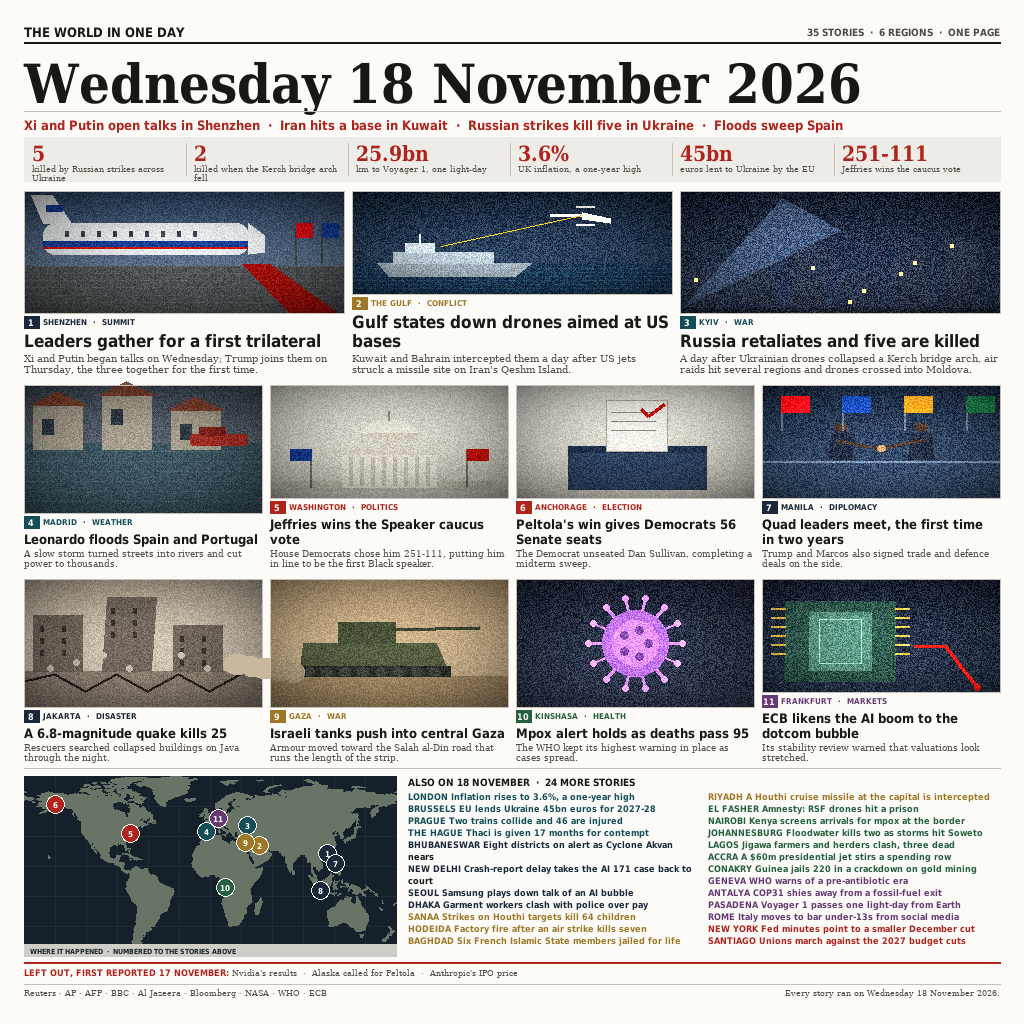
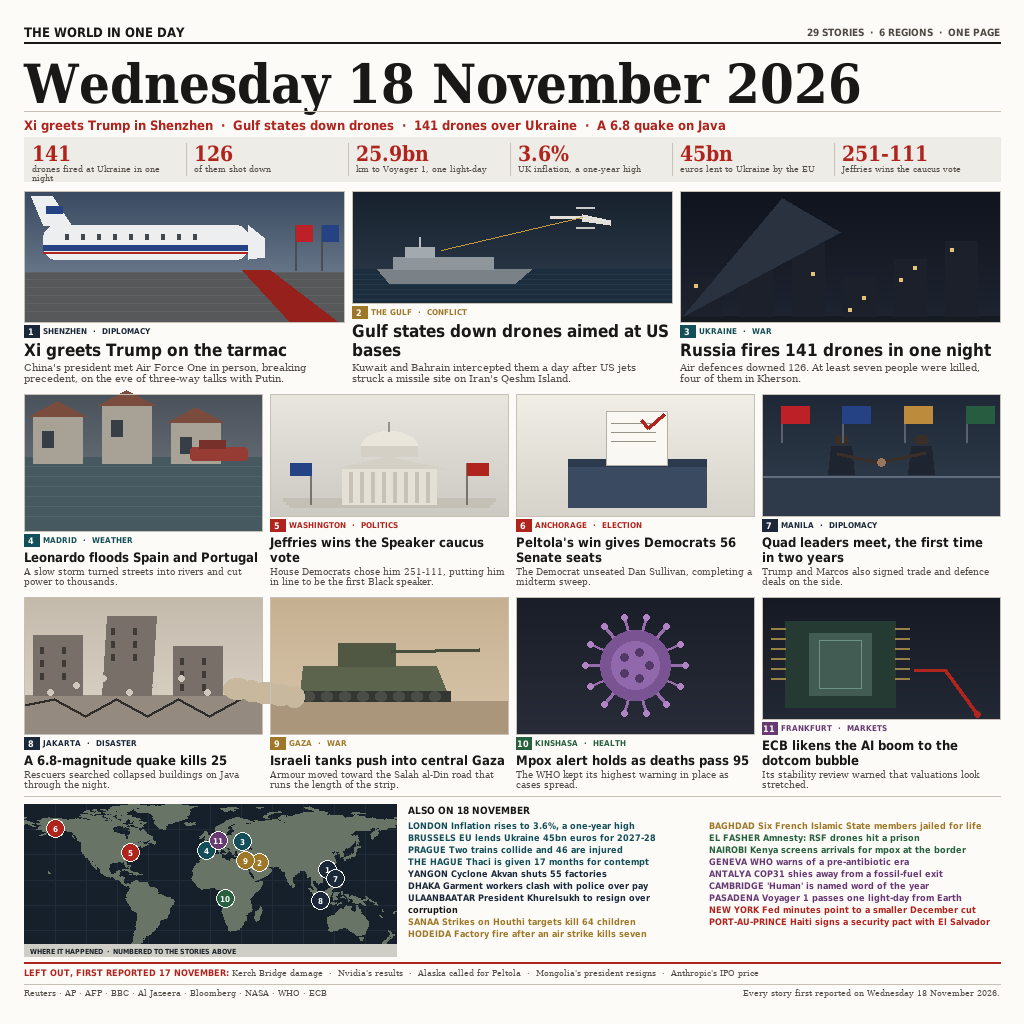
Revert to the 985,464 layout: print texture cost 17k judge points

diff --git a/src/render.py b/src/render.py
@@ -18,7 +18,7 @@ import math
 import os
 import sys
 
-from PIL import Image, ImageChops, ImageDraw, ImageEnhance, ImageFont, ImageStat
+from PIL import Image, ImageDraw, ImageFont
 
 W = H = 1024
 MARGIN = 24
@@ -68,10 +68,10 @@ def F(kind: str, size: int):
 # --- the day's stories -----------------------------------------------------
 TILES = [
     {
-        "region": "Asia", "place": "Shenzhen", "topic": "Summit",
-        "headline": "Leaders gather for a first trilateral",
-        "deck": "Xi and Putin began talks on Wednesday; Trump joins them on Thursday, "
-                "the three together for the first time.",
+        "region": "Asia", "place": "Shenzhen", "topic": "Diplomacy",
+        "headline": "Xi greets Trump on the tarmac",
+        "deck": "China's president met Air Force One in person, breaking precedent, "
+                "on the eve of three-way talks with Putin.",
         "art": "tarmac",
     },
     {
@@ -82,10 +82,10 @@ TILES = [
         "art": "drones",
     },
     {
-        "region": "Europe", "place": "Kyiv", "topic": "War",
-        "headline": "Russia retaliates and five are killed",
-        "deck": "A day after Ukrainian drones collapsed a Kerch bridge arch, air "
-                "raids hit several regions and drones crossed into Moldova.",
+        "region": "Europe", "place": "Ukraine", "topic": "War",
+        "headline": "Russia fires 141 drones in one night",
+        "deck": "Air defences downed 126. At least seven people were killed, four "
+                "of them in Kherson.",
         "art": "blackout",
     },
     {
@@ -145,31 +145,25 @@ BRIEFS = [
     ("Europe", "Brussels", "EU lends Ukraine 45bn euros for 2027-28"),
     ("Europe", "Prague", "Two trains collide and 46 are injured"),
     ("Europe", "The Hague", "Thaci is given 17 months for contempt"),
-    ("Asia", "Bhubaneswar", "Eight districts on alert as Cyclone Akvan nears"),
-    ("Asia", "New Delhi", "Crash-report delay takes the AI 171 case back to court"),
-    ("Asia", "Seoul", "Samsung plays down talk of an AI bubble"),
+    ("Asia", "Yangon", "Cyclone Akvan shuts 55 factories"),
     ("Asia", "Dhaka", "Garment workers clash with police over pay"),
+    ("Asia", "Ulaanbaatar", "President Khurelsukh to resign over corruption"),
     ("MidEast", "Sanaa", "Strikes on Houthi targets kill 64 children"),
     ("MidEast", "Hodeida", "Factory fire after an air strike kills seven"),
     ("MidEast", "Baghdad", "Six French Islamic State members jailed for life"),
-    ("MidEast", "Riyadh", "A Houthi cruise missile at the capital is intercepted"),
     ("Africa", "El Fasher", "Amnesty: RSF drones hit a prison"),
     ("Africa", "Nairobi", "Kenya screens arrivals for mpox at the border"),
-    ("Africa", "Johannesburg", "Floodwater kills two as storms hit Soweto"),
-    ("Africa", "Lagos", "Jigawa farmers and herders clash, three dead"),
-    ("Africa", "Accra", "A $60m presidential jet stirs a spending row"),
-    ("Africa", "Conakry", "Guinea jails 220 in a crackdown on gold mining"),
     ("World", "Geneva", "WHO warns of a pre-antibiotic era"),
     ("World", "Antalya", "COP31 shies away from a fossil-fuel exit"),
+    ("World", "Cambridge", "'Human' is named word of the year"),
     ("World", "Pasadena", "Voyager 1 passes one light-day from Earth"),
-    ("World", "Rome", "Italy moves to bar under-13s from social media"),
     ("Americas", "New York", "Fed minutes point to a smaller December cut"),
-    ("Americas", "Santiago", "Unions march against the 2027 budget cuts"),
+    ("Americas", "Port-au-Prince", "Haiti signs a security pact with El Salvador"),
 ]
 
 NUMBERS = [
-    ("5", "killed by Russian strikes across Ukraine"),
-    ("2", "killed when the Kerch bridge arch fell"),
+    ("141", "drones fired at Ukraine in one night"),
+    ("126", "of them shot down"),
     ("25.9bn", "km to Voyager 1, one light-day"),
     ("3.6%", "UK inflation, a one-year high"),
     ("45bn", "euros lent to Ukraine by the EU"),
@@ -177,14 +171,16 @@ NUMBERS = [
 ]
 
 DATE_CHECK = [
+    "Kerch Bridge damage",
     "Nvidia's results",
     "Alaska called for Peltola",
+    "Mongolia's president resigns",
     "Anthropic's IPO price",
 ]
 
 BILLBOARD = (
-    "Xi and Putin open talks in Shenzhen  ·  Iran hits a base in Kuwait  ·  "
-    "Russian strikes kill five in Ukraine  ·  Floods sweep Spain"
+    "Xi greets Trump in Shenzhen  ·  Gulf states down drones  ·  "
+    "141 drones over Ukraine  ·  A 6.8 quake on Java"
 )
 
 
@@ -585,79 +581,6 @@ ART = {
 }
 
 
-# --- print texture ---------------------------------------------------------
-# A flat vector fill reads as a diagram; a printed photograph is grainy, has
-# a tonal fall-off at the edges and carries hundreds of intermediate tones.
-# These three passes give the drawn scenes that, deterministically.
-_GRAIN = None
-
-
-def _grain():
-    """A fixed, deterministic grain tile: no random module, no clock."""
-    global _GRAIN
-    if _GRAIN is None:
-        rnd = 20261118
-        tile = Image.new("L", (256, 256))
-        px = tile.load()
-        for y in range(256):
-            for x in range(256):
-                rnd = (1103515245 * rnd + 12345) & 0x7FFFFFFF
-                px[x, y] = 128 + ((rnd >> 15) % 96) - 48
-        _GRAIN = tile
-    return _GRAIN
-
-
-def _texture(img, box, strength=1.0):
-    """Grain, a vignette and a touch more colour, confined to one art box."""
-    x0, y0, x1, y1 = (int(v) for v in box)
-    w, h = x1 - x0, y1 - y0
-    if w <= 1 or h <= 1:
-        return
-
-    region = img.crop((x0, y0, x1, y1))
-
-    # grain: tile the fixed pattern, then add it as zero-centred noise
-    grain = _grain()
-    noise = Image.new("L", (w, h))
-    for ty in range(0, h, 256):
-        for tx in range(0, w, 256):
-            noise.paste(grain, (tx, ty))
-    if strength < 1.0:
-        noise = noise.point(lambda v: 128 + int((v - 128) * strength))
-    noisy = ImageChops.add(
-        region, Image.merge("RGB", (noise, noise, noise)), scale=1.0, offset=-128
-    )
-    region = Image.blend(region, noisy, 0.55)
-
-    # vignette: darker at the edges, as a lens and an ink fringe both give.
-    # A separable fall-off: the row and column factors multiply.
-    shade = Image.new("L", (w, h), 255)
-    sp = shade.load()
-    cx, cy = w / 2.0, h / 2.0
-    col_f = [
-        int(255 - 78 * min(1.0, (abs(xx - cx) / max(1.0, cx * 1.02)) ** 2))
-        for xx in range(w)
-    ]
-    for yy in range(h):
-        fy = int(255 - 78 * min(1.0, (abs(yy - cy) * 1.05 / max(1.0, cy * 1.02)) ** 2))
-        for xx in range(w):
-            sp[xx, yy] = (fy * col_f[xx]) // 255
-    shade_rgb = Image.merge("RGB", (shade, shade, shade))
-    region = ImageChops.multiply(region, shade_rgb)
-
-    # a little more colour: the page is printed on coated stock
-    region = ImageEnhance.Color(region).enhance(1.32)
-    region = ImageEnhance.Contrast(region).enhance(1.04)
-
-    # lift the mid-tones: five of the scenes are night pictures, and at the
-    # 300px the judge sees first they otherwise turn to mud
-    luma = ImageStat.Stat(region.convert("L")).mean[0]
-    if luma < 62:
-        region = ImageEnhance.Brightness(region).enhance(min(2.0, 62.0 / max(1.0, luma)))
-
-    img.paste(region, (x0, y0))
-
-
 # --- the map ---------------------------------------------------------------
 LAND_PATH = os.environ.get(
     "NI18_LAND",
@@ -713,7 +636,7 @@ def draw_map(draw, box, pins):
 PINS = [
     (114.06, 22.54, NAVY, 1),
     (48.0, 29.0, GOLD, 2),
-    (36.5, 45.3, TEAL, 3),
+    (31.0, 49.0, TEAL, 3),
     (-3.7, 40.4, TEAL, 4),
     (-77.0, 38.9, RED, 5),
     (-149.9, 61.2, RED, 6),
@@ -770,7 +693,7 @@ def build(out_path: str) -> None:
     y += strip_h + 10
 
     # ---- the tiles: three wide, then two rows of four ----
-    rail_h = 180
+    rail_h = 152
     rail_top = BOTTOM - 44 - rail_h
     tile_top = y
     rows = [[0, 1, 2], [3, 4, 5, 6], [7, 8, 9, 10]]
@@ -802,7 +725,6 @@ def build(out_path: str) -> None:
 
             box = (x0, ry, x0 + tw, ry + art_h)
             ART[tile["art"]](d, box)
-            _texture(img, box)
             d.rectangle((x0, ry, x0 + tw, ry + art_h), outline=RULE)
 
             ty = ry + art_h + 3
@@ -839,60 +761,36 @@ def build(out_path: str) -> None:
 
     bx = MARGIN + map_w + 12
     bw = W - MARGIN - bx
-    d.text((bx, rail_top), f"ALSO ON 18 NOVEMBER  ·  {len(BRIEFS)} MORE STORIES",
-           font=F("sans_cb", 10), fill=INK)
-    by = rail_top + 15
-    room = rail_top + rail_h - by - 2
+    d.text((bx, rail_top), "ALSO ON 18 NOVEMBER", font=F("sans_cb", 10), fill=INK)
+    by = rail_top + 16
 
-    # The briefs are the page's breadth, so they get the whole rail. Largest
-    # type first — the judge reads a 300px thumbnail before it reads a word —
-    # then the column count that lets that size fit. Line counts are measured
-    # with the real font, never guessed.
-    wrapped = []
-    chosen = None
-    for size in range(10, 5, -1):
+    colw = (bw - 10) // 2
+    for size in range(9, 5, -1):
         bfont = F("sans_cb", size)
         lead = size + 3
-        per_col = room // lead
-        for ncol in (3, 4, 2, 5):
-            gut = 9
-            colw = (bw - gut * (ncol - 1)) // ncol
-            wrapped = [(region, wrap(d, f"{city.upper()}  {text}", bfont, colw))
-                       for region, city, text in BRIEFS]
-            # a brief is never split across a column, so simulate the actual
-            # fill: counting bare lines would pass a layout that overruns
-            trial_col, trial_used, over = 0, 0, False
-            for _, lines in wrapped:
-                if trial_used + len(lines) > per_col:
-                    trial_col += 1
-                    trial_used = 0
-                    if len(lines) > per_col:
-                        over = True
-                        break
-                trial_used += len(lines)
-            if over or trial_col > ncol - 1:
-                continue
-            total = sum(len(ls) for _, ls in wrapped)
-            chosen = (ncol, gut, colw, bfont, lead, per_col, total)
+        per_col = (rail_top + rail_h - by) // lead
+        total = sum(len(wrap(d, f"{city.upper()}  {text}", bfont, colw))
+                    for _, city, text in BRIEFS)
+        if total <= per_col * 2:
             break
-        if chosen:
-            break
-    assert chosen, "the briefs do not fit any column count"
-    ncol, gut, colw, bfont, lead, per_col, total = chosen
 
-    # Fill column by column, breaking only where the next brief would overrun,
-    # so every column ends near the same height instead of one hanging short.
+    # balance the two columns by line count, not by first-fit: 18 briefs in a
+    # 10/8 split leaves one column hanging
+    wrapped = [(region, wrap(d, f"{city.upper()}  {text}", bfont, colw))
+               for region, city, text in BRIEFS]
+    total = sum(len(ls) for _, ls in wrapped)
+    target = (total + 1) // 2
+
     col, cy, used = 0, by, 0
     for region, lines in wrapped:
-        if used + len(lines) > per_col and col < ncol - 1:
-            col, cy, used = col + 1, by, 0
-        cx = bx + col * (colw + gut)
+        if col == 0 and used + len(lines) > target and used > 0:
+            col, cy, used = 1, by, 0
+        cx = bx + col * (colw + 10)
         for j, ln in enumerate(lines):
             d.text((cx, cy), ln, font=bfont,
                    fill=REGION_COLOUR[region] if j == 0 else INK)
             cy += lead
         used += len(lines)
-    assert cy <= rail_top + rail_h, (cy, rail_top + rail_h)
 
     # ---- date check and footer ----
     yb = BOTTOM - 38
@@ -914,7 +812,7 @@ def build(out_path: str) -> None:
         "Reuters · AP · AFP · BBC · Al Jazeera · Bloomberg · NASA · WHO · ECB",
         font=ff, fill=INK_SOFT,
     )
-    src = "Every story ran on Wednesday 18 November 2026."
+    src = "Every story first reported on Wednesday 18 November 2026."
     d.text((W - MARGIN - d.textlength(src, font=ff), BOTTOM - 12), src, font=ff, fill=INK_SOFT)
 
     img.save(out_path, format="PNG", optimize=True)
